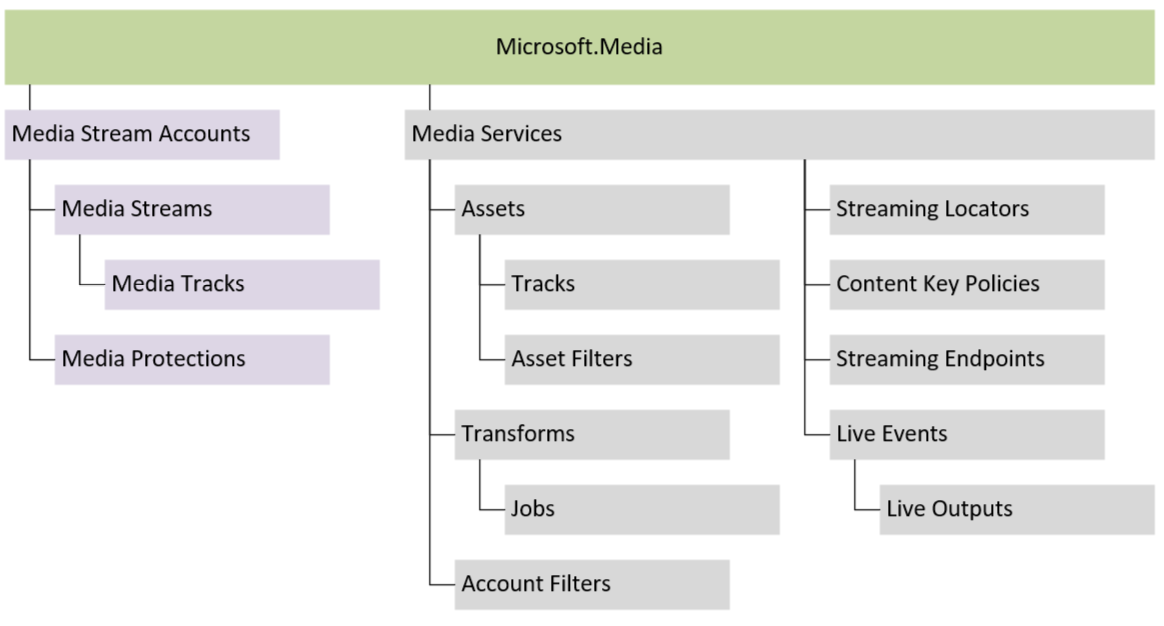
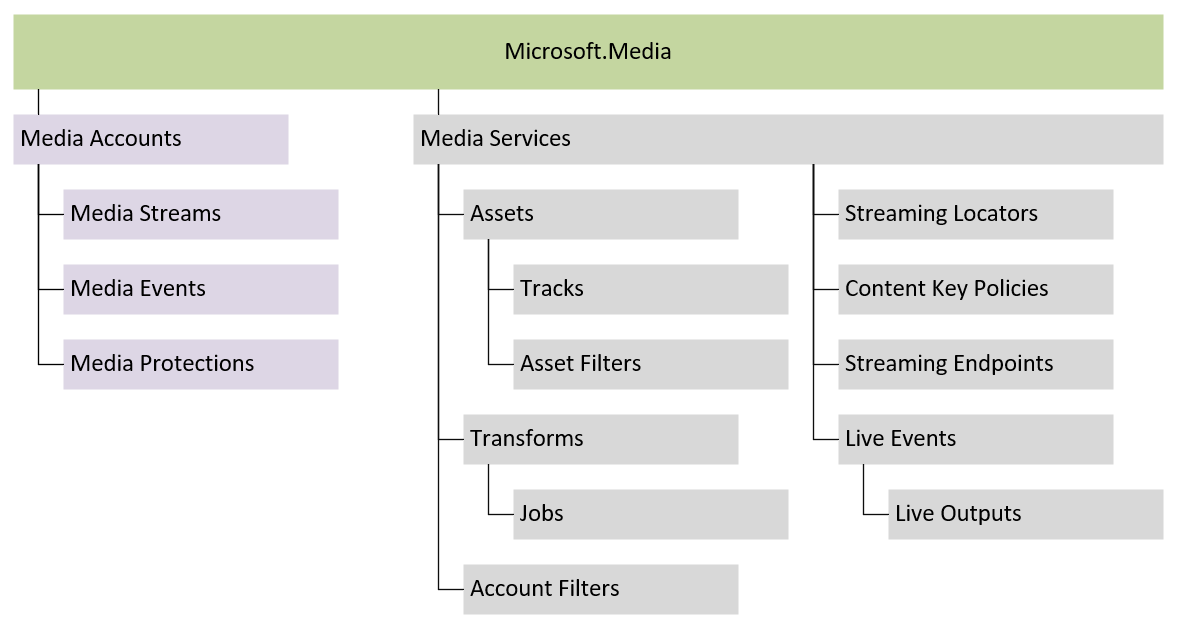
aPaaS work-in-progress

diff --git a/singlesource/v1/media-accounts.md b/singlesource/v1/media-accounts.md
@@ -10,11 +10,11 @@ ms.lastreviewed: 12/01/2022
 ms.service: media-services
 ---
 
-# Media Stream Accounts
+# Media Accounts
 
 [!INCLUDE [<prerelease-api>](../includes/prerelease-api.md)]
 
-**Media stream accounts** provide a simple, scalable, and reliable way to manage media using Azure. Media stream accounts can be used to stream live events to audiences of any size.
+**Media accounts** provide a simple, scalable, and reliable way to manage media using Azure. Media stream accounts can be used to stream live events to audiences of any size.
 
 ![Media Services resources](../media/resources.png)
 
@@ -30,7 +30,7 @@ Media stream accounts are an alternative to Media Services accounts. Media strea
 
 Media stream accounts contain [media streams](media-streams.md) for streaming media content and [media protections](media-protections.md) for protecting media content.
 
-## Creating a media stream account
+## Creating a media account
 
 Media stream accounts can be created using the Azure Portal, ARM templates, client SDKs, or using HTTP requests. 
 
@@ -77,7 +77,7 @@ network access is blocked, media may only be streamed using a [private endpoint]
 
 Media stream accounts use managed identities to access keys used for account encryption and certificates for content key token signing.
 
-Managed identities are configured using the `identity` property of the media stream account:
+Managed identities are configured using the `identity` property of the media account:
 
 #### [C#](#tab/csharp)
 
@@ -92,10 +92,10 @@ Managed identities are configured using the `identity` property of the media str
 
 ### Encryption
 
-A media stream account may configured to encrypt data using a customer provided key. The customer provided key is used to encrypt
+A media account may configured to encrypt data using a customer provided key. The customer provided key is used to encrypt
 media content and media content keys when stored by the service (different keys are used when streaming media content to viewers).
 
-To encrypt a media stream account using a customer provided key, a key must be created in a Key Vault:
+To encrypt a media account using a customer provided key, a key must be created in a Key Vault:
 
 #### [C#](#tab/csharp)
 
@@ -107,7 +107,7 @@ To encrypt a media stream account using a customer provided key, a key must be c
 
 ---
 
-A managed identity associated with the media stream account must be granted access to key. The method for granting access
+A managed identity associated with the media account must be granted access to key. The method for granting access
 depends on the access model configured for the Key Vault.
 
 Once a key has been created and the managed identity has been granted access to the key, the key may be set
@@ -125,7 +125,7 @@ in an account creation or update request:
 
 ### Tags
 
-Tags can be specified when creating or updating a media stream account:
+Tags can be specified when creating or updating a media account:
 
 #### [C#](#tab/csharp)
 
@@ -139,14 +139,14 @@ Tags can be specified when creating or updating a media stream account:
 
 ## Media stream account operations
 
-### Updating a media stream account
+### Updating a media account
 
-The public network access, encryption properties, identity, and tags of an existing media stream account may be updated. After a media stream account has been created, the
+The public network access, encryption properties, identity, and tags of an existing media account may be updated. After a media account has been created, the
 location and data location properties may not be updated.
 
 > [!CAUTION]
-> Updating the identity properties of a media stream account may prevent Media Services from accessing account encryption keys
-and token signing certificates stored in Azure Key Vault. The media stream account will be disabled if the account encryption
+> Updating the identity properties of a media account may prevent Media Services from accessing account encryption keys
+and token signing certificates stored in Azure Key Vault. The media account will be disabled if the account encryption
 key cannot be accessed. Streams that depend on a token signing certificate will fail to play if the certificate cannot be
 accessed.
 
@@ -160,7 +160,7 @@ accessed.
 
 ---
 
-### Listing media stream accounts
+### Listing media accounts
 
 Media stream accounts may be listed using the service API.
 
@@ -174,12 +174,12 @@ Media stream accounts may be listed using the service API.
 
 ---
 
-### Deleting a media stream account
+### Deleting a media account
 
 Media stream accounts may be deleted. When an account is deleted, all media content and service configuration is removed.
 
 > [!CAUTION]
-> It may not be possible to recover deleted media stream accounts. Consider using Azure resource locks to prevent accidental resource deletion.
+> It may not be possible to recover deleted media accounts. Consider using Azure resource locks to prevent accidental resource deletion.
 
 #### [C#](#tab/csharp)
 
@@ -193,4 +193,4 @@ Media stream accounts may be deleted. When an account is deleted, all media cont
 
 ## Media stream account limits and billing
 
-By default, an Azure subscription may contain up to fifty media stream accounts. While there is no charge for a media stream accounts, resources within a media stream account are billed.
+By default, an Azure subscription may contain up to fifty media accounts. While there is no charge for a media accounts, resources within a media account are billed.

diff --git a/singlesource/v1/media-protections.md b/singlesource/v1/media-protections.md
@@ -17,7 +17,7 @@ media protection is encrypted with a content key. Authorized viewers can use tok
 to access the content key for a media stream output.
 
 Tokens used in request media content key requests are signed with a token signing certificate, stored in
-Azure Key Vault. The token signing certificate is accessed a managed identity associated with the media stream account.
+Azure Key Vault. The token signing certificate is accessed a managed identity associated with the media account.
 
 ## Creating a token signing certificate
 
@@ -40,7 +40,7 @@ Creating a token signing certificate:
 To create a token protection option, specify the enabled content protection methods (currently only clear key is supported),
 the token protection certificate, and the managed identity that should be used to access the token protection certificate.
 
-The managed identity must be associated with the media stream account and must be granted the `Sign` permission for the Key Vault
+The managed identity must be associated with the media account and must be granted the `Sign` permission for the Key Vault
 certificate.
 
 The token signing certificate may either be specified as a Key Vault certificate URI with a version identifier or a URI without
@@ -197,5 +197,5 @@ is using a media protection, requests to delete the media protection will fail.
 
 ## Media protection options limits and billing
 
-A media stream account may have up to one thousand media protections. There is no charge for creating a media protection
+A media account may have up to one thousand media protections. There is no charge for creating a media protection
 option. Requests to access keys using a media protection are billed.

diff --git a/singlesource/v1/media-streams.md b/singlesource/v1/media-streams.md
@@ -13,7 +13,7 @@ ms.service: media-services
 # Media Streams
 
 Media streams can be used to stream live and recorded media. Media Services manages the storage and streaming resources for streaming.
-A media stream account may contain up to one million media stream resources.
+A media account may contain up to one million media stream resources.
 
 > [!NOTE]
 > Media streams combine the Media Services asset, streaming locator, streaming endpoint, and live event resources. Unlike Media Services
@@ -189,5 +189,5 @@ each of the outputs defined in the media stream.
 
 ## Media stream limits and billing
 
-A media stream account may have up to one million media streams. Media streams are billed for the number of minutes of content stored,
+A media account may have up to one million media streams. Media streams are billed for the number of minutes of content stored,
 the number of minutes of ingest, and the number of minutes of content streamed.

diff --git a/singlesource/includes/notes-for-csharp-setup.md b/singlesource/includes/notes-for-csharp-setup.md
@@ -10,6 +10,6 @@ ms.lastreviewed: 01/01/2023
 ms.service: media-services
 ---
 
-To use the media stream accounts API, install the [`Azure.Identity`](https://www.nuget.org/packages/Azure.Identity) and [`Azure.ResourceManager.Media`](https://www.nuget.org/packages/Azure.ResourceManager.Media) NuGet packages.
+To use the media accounts API, install the [`Azure.Identity`](https://www.nuget.org/packages/Azure.Identity) and [`Azure.ResourceManager.Media`](https://www.nuget.org/packages/Azure.ResourceManager.Media) NuGet packages.
 
 The Azure resource manager API may be accessed using default credentials:

diff --git a/singlesource/v2/monitoring.md b/singlesource/v2/monitoring.md
@@ -16,7 +16,7 @@ ms.service: media-services
 
 **TODO**
 
-- Describe the Event Grid events raised by a media stream account
+- Describe the Event Grid events raised by a media account
 - Describe audit logs
 - Describe metrics
 - Show how audit logs, metrics, and Event Grid events can be used to monitor an account
